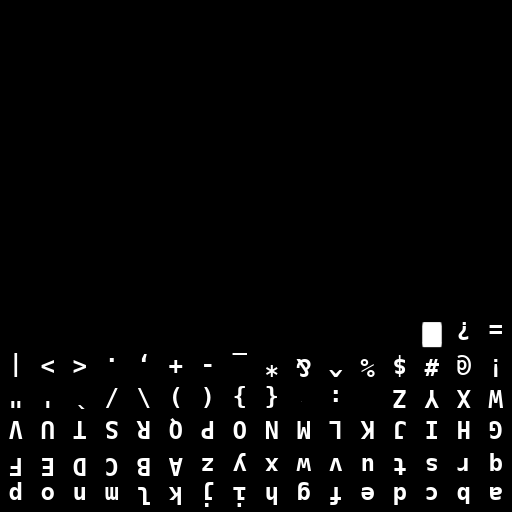
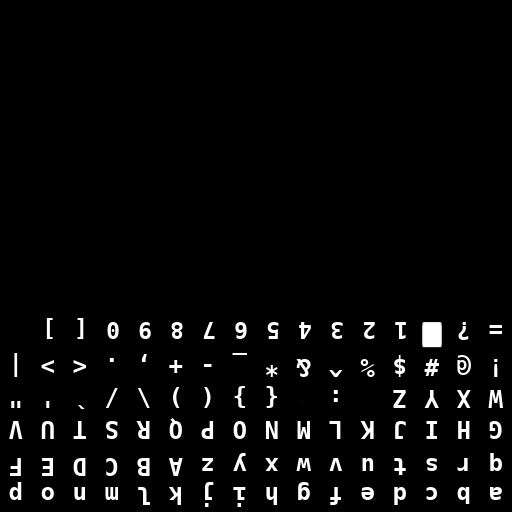
Added special character handling and numeric characters.

Changed region(s): [[0.4062, 0.625, 0.8125, 0.6562], [0.1562, 0.625, 0.375, 0.6562], [0.0625, 0.625, 0.125, 0.6562]]

diff --git a/term.html b/term.html
@@ -87,9 +87,31 @@ of the license will forever remain licenesed under that version.
                 terminal.backspace();
               } else if(evt.code == "ShiftLeft" || evt.code == "ShiftRight" || evt.code == "CapsLock") {
                 // ignore
-              } else {
+                var i = 0;
+                i++;
+              } else if(String.fromCharCode(evt.keyCode).match(/^[a-zA-Z]+$/)) {
                 var char = String.fromCharCode(evt.keyCode);
                 if(!evt.shiftKey) char = char.toLowerCase();
+                terminal.writeCharToTerminal(char);
+              } else {
+                var char = null;
+                switch(evt.code) {
+                  case "BracketLeft": evt.shiftKey ? char = "{" : char = "["; break;
+                  case "BracketRight": evt.shiftKey ? char = "}" : char = "]"; break;
+                  case "Slash": evt.shiftKey ? char = "?" : char = "/"; break;
+                  case "Comma": evt.shiftKey ? char = "<" : char = ","; break;
+                  case "Period": evt.shiftKey ? char = ">" : char = "."; break;
+                  case "Digit1": evt.shiftKey ? char = "!" : char = "1"; break;
+                  case "Digit2": evt.shiftKey ? char = "@" : char = "2"; break;
+                  case "Digit3": evt.shiftKey ? char = "#" : char = "3"; break;
+                  case "Digit4": evt.shiftKey ? char = "$" : char = "4"; break;
+                  case "Digit5": evt.shiftKey ? char = "%" : char = "5"; break;
+                  case "Digit6": evt.shiftKey ? char = "^" : char = "6"; break;
+                  case "Digit7": evt.shiftKey ? char = "&" : char = "7"; break;
+                  case "Digit8": evt.shiftKey ? char = "*" : char = "8"; break;
+                  case "Digit9": evt.shiftKey ? char = "(" : char = "9"; break;
+                  case "Digit0": evt.shiftKey ? char = ")" : char = "0"; break;
+                }
                 terminal.writeCharToTerminal(char);
               }
           };

diff --git a/js/threeterm.js b/js/threeterm.js
@@ -157,8 +157,8 @@ var ctr = 0;
       ['q','r','s','t','u','v','w','x','y','z','A','B','C','D','E','F',],
       ['G','H','I','J','K','L','M','N','O','P','Q','R','S','T','U','V',],
       ['W','X','Y','Z',' ',':',';','{','}','(',')','\\','/','`','\'','"',],
-      ['!','@','#','$','%','^',';','*','_','-','+',',','.','<','>','|',],
-      ['=','?', 'Cursor']
+      ['!','@','#','$','%','^','&','*','_','-','+',',','.','<','>','|',],
+      ['=','?', 'Cursor', '1','2','3','4','5','6','7','8','9','0','[',']']
     ]
 
     for(var col = 0; col < charMap.length; col++) {
